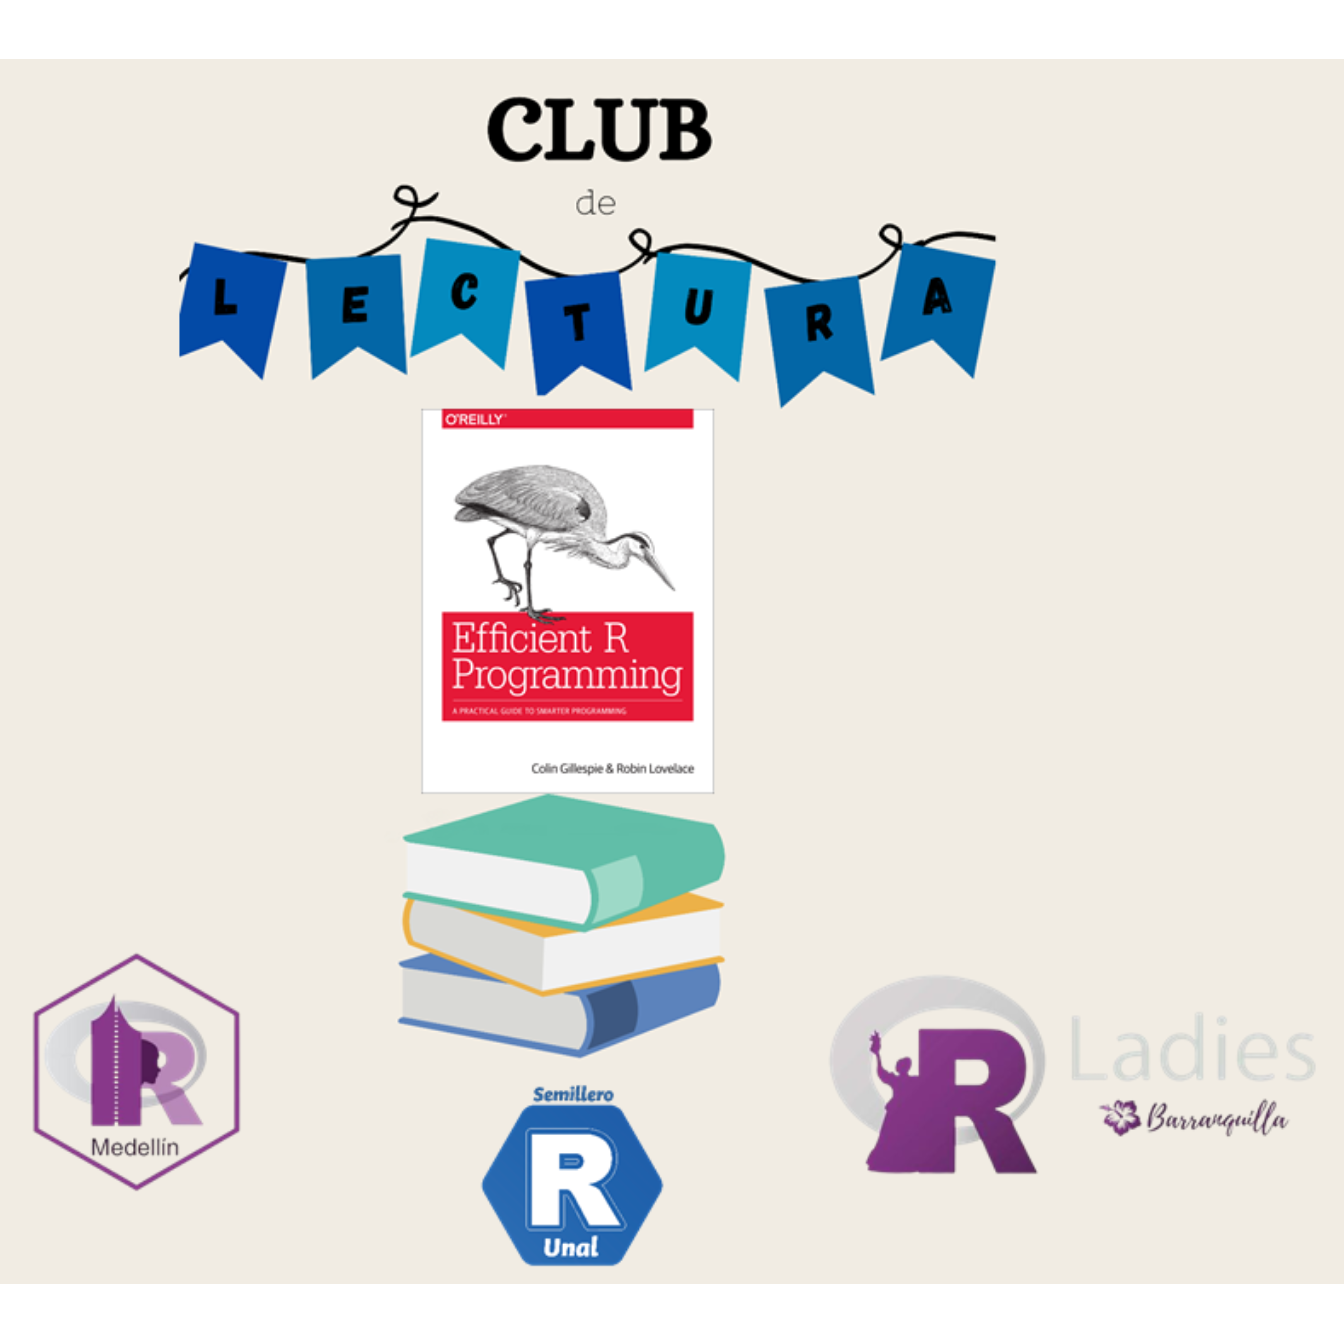
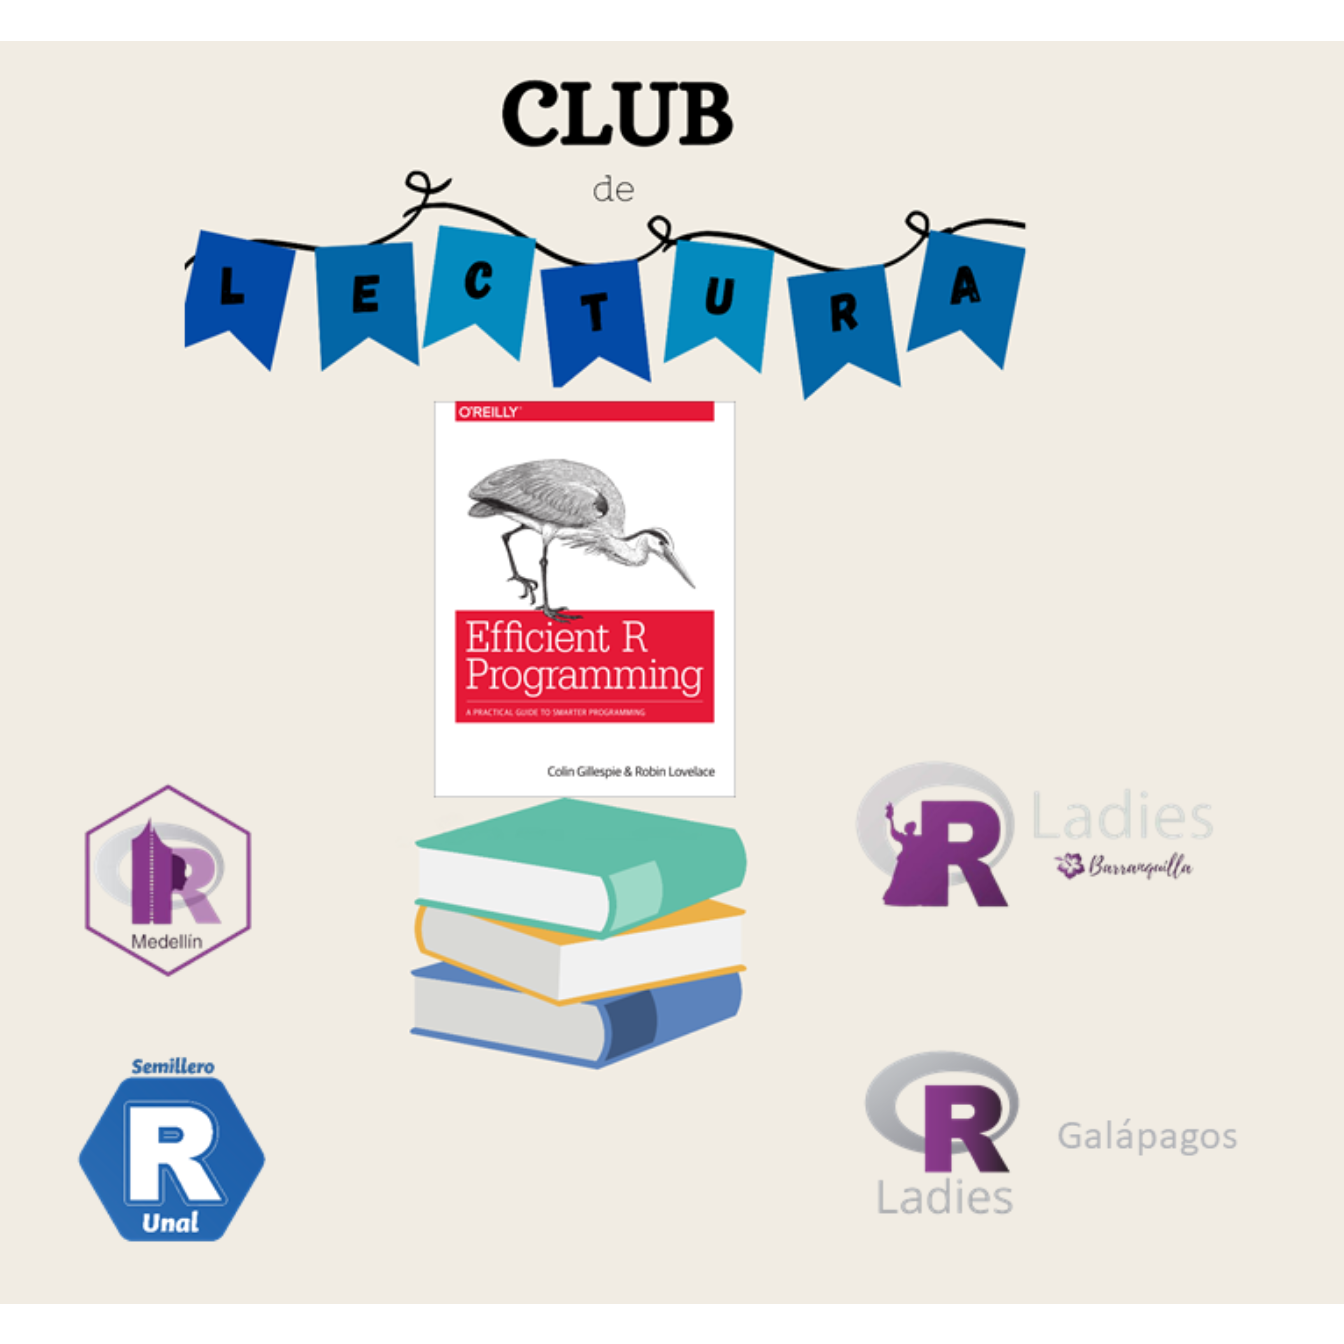
c

diff --git a/club_lec_eRp.html b/club_lec_eRp.html
@@ -347,7 +347,7 @@ $(document).ready(function () {
 
 <p><img src="club_lec_eRp_files/figure-html/unnamed-chunk-1-1.png" width="672" style="display: block; margin: auto;" /></p>
 <p>En este primer semestre de 2022 vamos a realizar el Club de Lectura del libro <a href="https://bookdown.org/csgillespie/efficientR/">Efficient R Programming</a> de Colin Gillespie y Robin Lovelace. En cada reunión vamos a compartir las ideas, impresiones, dudas y curiosidades sobre un capítulo del libro.</p>
-<p>En esta ocasión el Club de Lectura se hará en conjunto con <a href="https://www.meetup.com/es/rladies-medellin/">R ladies Medellín</a> y con <a href="https://www.meetup.com/es/rladies-barranquilla/">R ladies Barranquilla</a> y <a href="https://www.meetup.com/es/rladies-galapagos-islands/">R ladies Galápagos</a>.</p>
+<p>En esta ocasión el Club de Lectura se hará en conjunto con <a href="https://www.meetup.com/es/rladies-medellin/">R ladies Medellín</a>, <a href="https://www.meetup.com/es/rladies-barranquilla/">R ladies Barranquilla</a> y <a href="https://www.meetup.com/es/rladies-galapagos-islands/">R ladies Galápagos</a>.</p>
 <p>Las reuniones se realizarán cada dos semanas los días <strong>martes</strong> de 6:00 pm a 6:50 pm. Abajo están las fechas de las reuniones y los capítulos a tratar.</p>
 <ul>
 <li>15 de marzo: reunión de bienvenida al Club de Lectura.</li>
